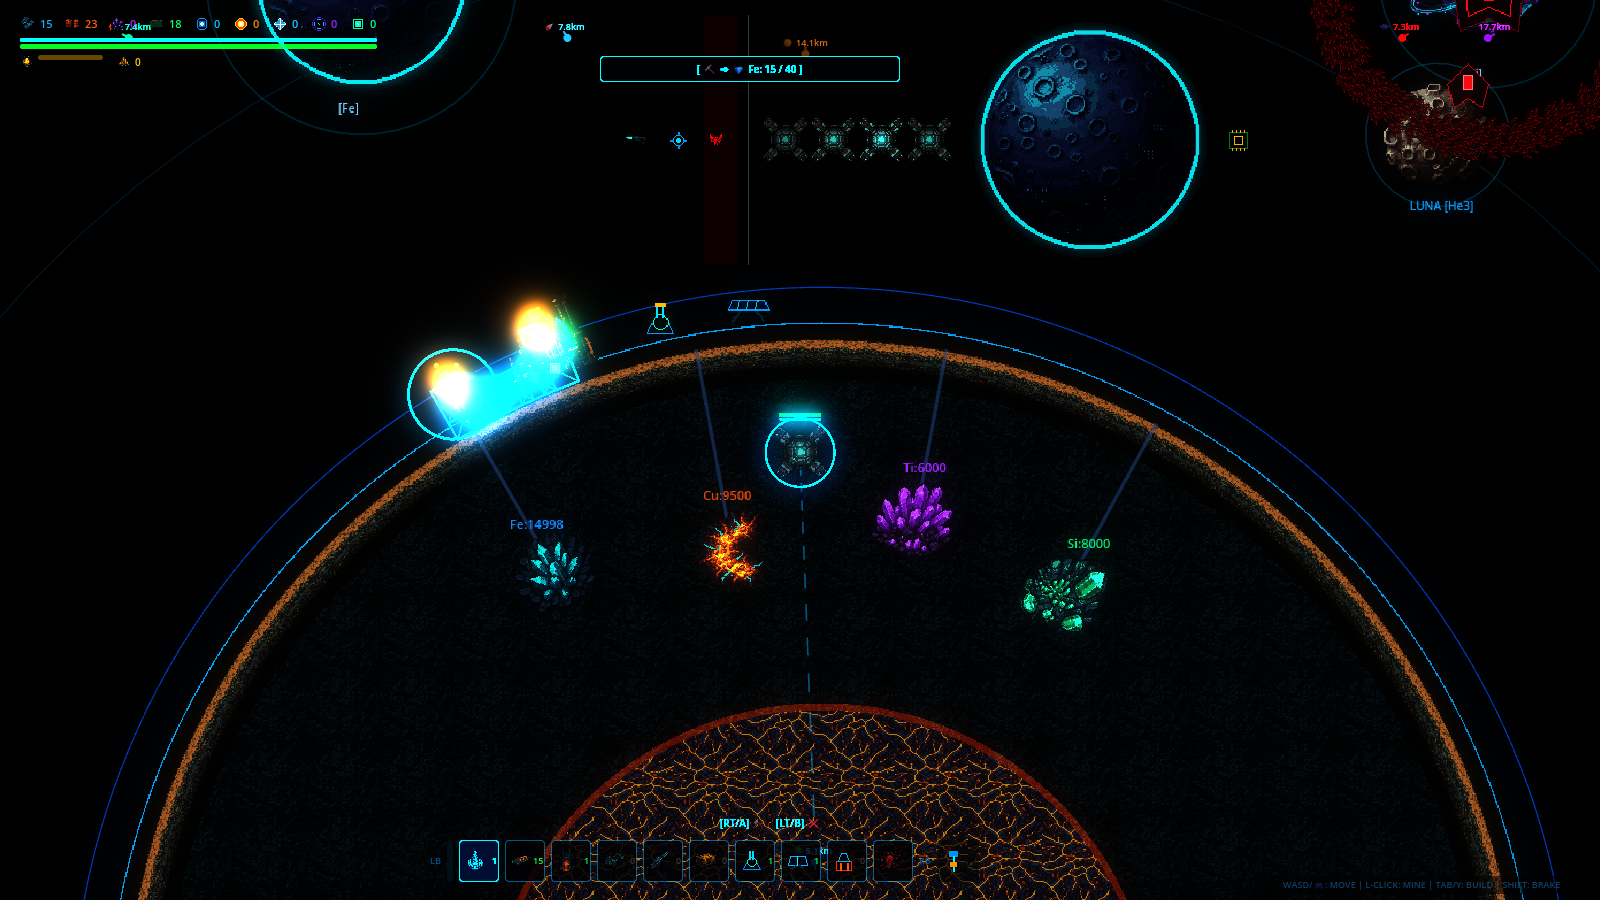
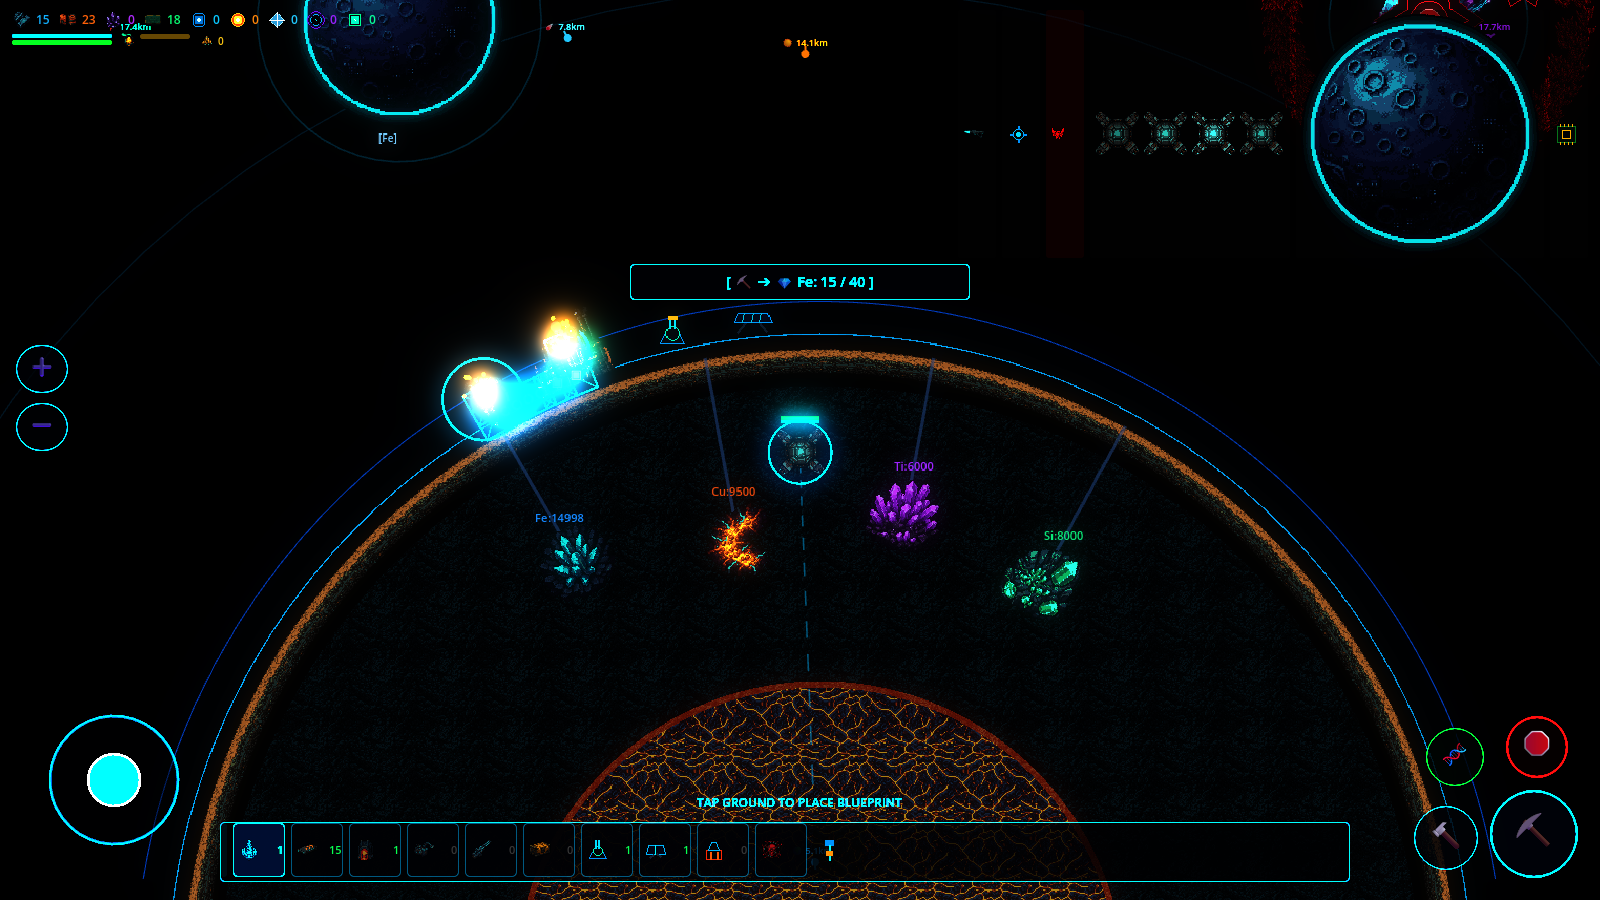
feat: Full mobile touch controls, responsive UI scaling, virtual joystick and action cluster

diff --git a/index.html b/index.html
@@ -93,7 +93,7 @@ body {
 		</style>
 		<link id="-gd-engine-icon" rel="icon" type="image/png" href="index.icon.png" />
 <link rel="apple-touch-icon" href="index.apple-touch-icon.png"/>
-
+<script src="coi-serviceworker.js"></script>
 	</head>
 	<body>
 		<canvas id="canvas">
@@ -112,7 +112,7 @@ body {
 
 		<script src="index.js"></script>
 		<script>
-const GODOT_CONFIG = {"args":[],"canvasResizePolicy":2,"emscriptenPoolSize":8,"ensureCrossOriginIsolationHeaders":true,"executable":"index","experimentalVK":false,"fileSizes":{"index.pck":378776,"index.wasm":39509339},"focusCanvas":true,"gdextensionLibs":[],"godotPoolSize":4};
+const GODOT_CONFIG = {"args":[],"canvasResizePolicy":2,"emscriptenPoolSize":8,"ensureCrossOriginIsolationHeaders":true,"executable":"index","experimentalVK":false,"fileSizes":{"index.pck":387464,"index.wasm":39509339},"focusCanvas":true,"gdextensionLibs":[],"godotPoolSize":4};
 const GODOT_THREADS_ENABLED = false;
 const engine = new Engine(GODOT_CONFIG);
 
